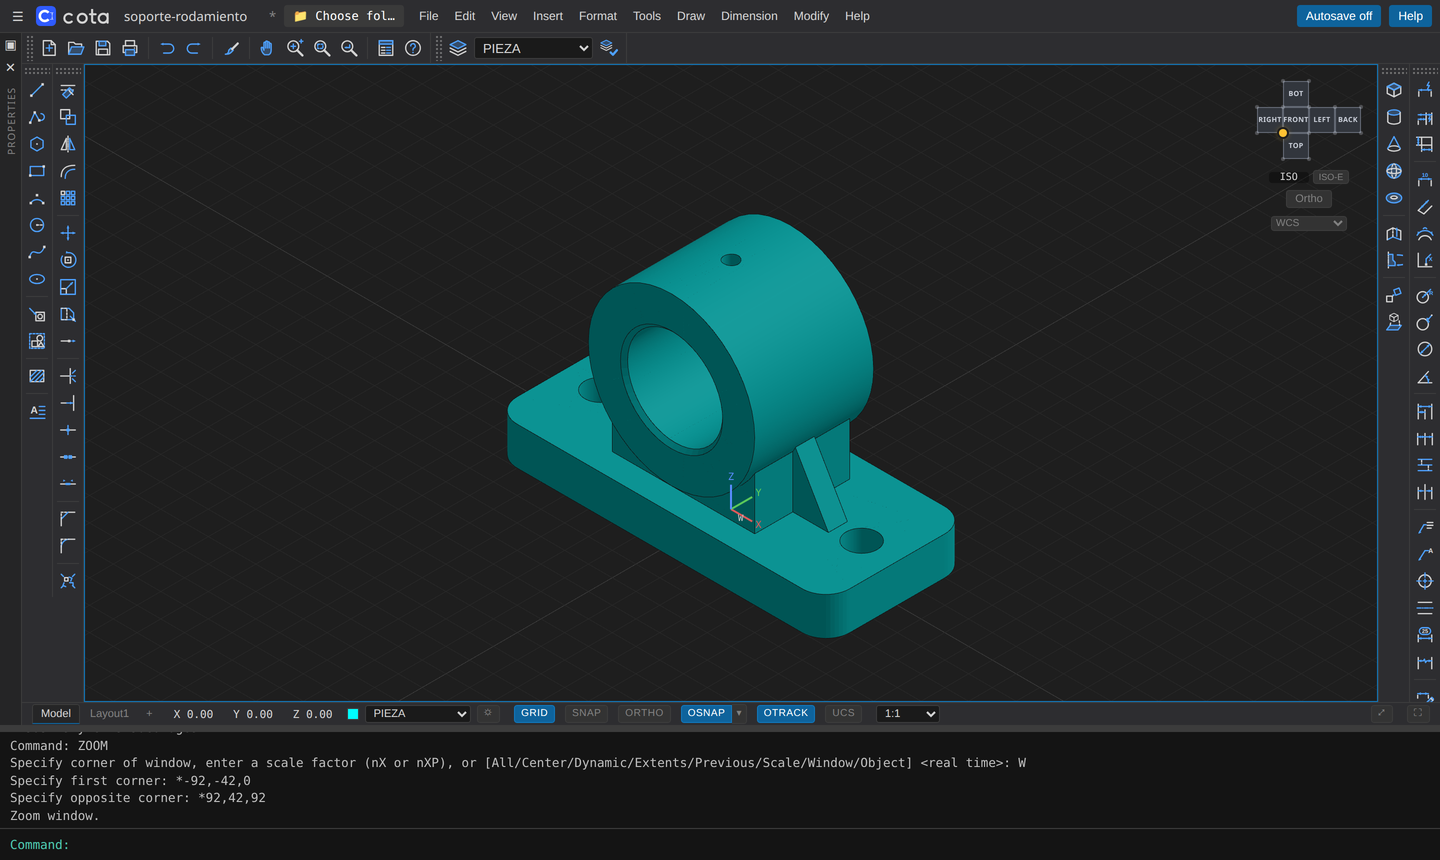
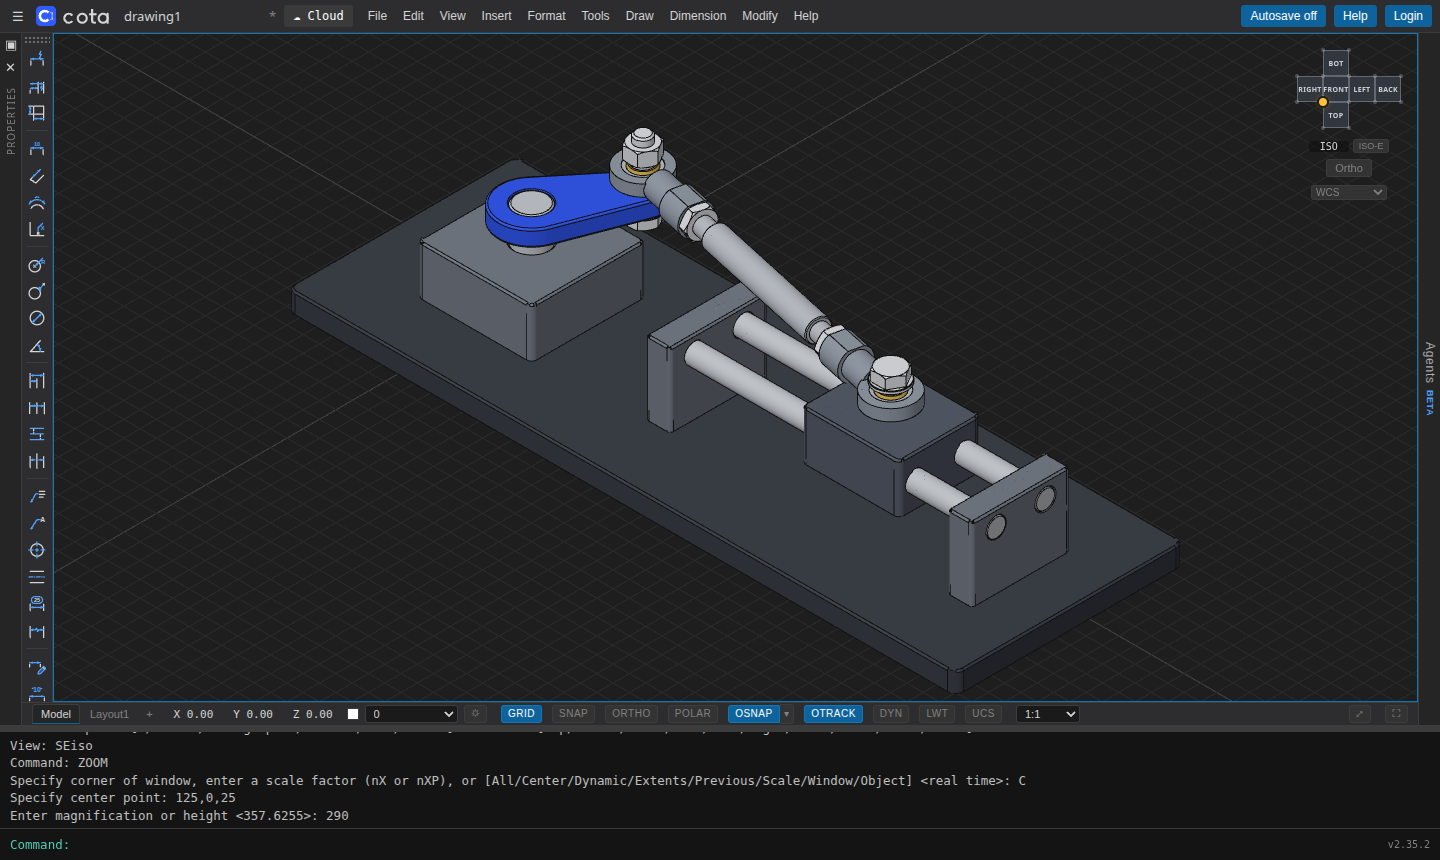
Cota 2.35.5

diff --git a/services/api/app/main.py b/services/api/app/main.py
@@ -20,7 +20,7 @@ def create_app(api_prefix: str = "") -> FastAPI:
     settings = get_settings()
     app = FastAPI(
         title="Cota API",
-        version="2.35.4",
+        version="2.35.5",
         docs_url=None if settings.is_hardened else f"{api_prefix}/docs",
         redoc_url=None,
         openapi_url=None if settings.is_hardened else f"{api_prefix}/openapi.json",

diff --git a/examples/README.md b/examples/README.md
@@ -94,3 +94,91 @@ two Ø13 mounting holes at ±55 and a Ø6 lubrication hole.
 9. **Dimensions in the Front UCS:** `DIMLINEAR 0,0 0,70 …`, `DIMLINEAR 0,0 80,0 …` and the Ø20 with
    `DIMLINEAR 20,40 @20,0 T ⌀<> …`.
 10. **Text "SOPORTE" on the plate:** `TEXT` with the dynamic UCS (click on the front face).
+
+## Slider-crank with rod ends — 3D assembly
+
+| File | What it is |
+| --- | --- |
+| `biela-manivela.cota` | The assembly: 27 solids on Spanish-named layers (`BANCADA`, `MANIVELA`, `BIELA`, `CABEZAS`, `ARO_INT`…) |
+| `biela-manivela.png` | Isometric view, shaded with edges |
+
+**What it is:** an in-line slider-crank, crank radius 50 and connecting rod 200 between centers (L/r = 4), shown with
+the crank at 60°. The rod has a rod end with a spherical plain bearing at each end, bolted to the crank and to a
+slider that runs on two Ø12 guide shafts.
+
+**Parts and sizes (mm):**
+- **Rod ends:** ISO 12240-4, dimension series E, type F (female thread M10): d 10, d2 29 (eye), C1 7 (eye width),
+  h1 43 (center to end of shank), l3 20 (thread length), d5 19 with W 17 wrench flats. Source: Schaeffler catalogue
+  HG 1, rod ends GIR..-DO, pp. 266–267 (row d = 10).
+- **Spherical plain bearing:** GE 10 E (ISO 12240-1): d 10, D 19, B 9, C 6, dk 16, r min 0.3. Source: SKF catalogue of
+  spherical plain bearings, pp. 104–105. The inner ring is a Ø16 sphere minus two caps at ±4.5 and a Ø10 bore; its
+  sphere-to-face edges carry the catalogue's 0.3 edge radius (`FILLETEDGE R 0.3`, *Loop*).
+- **Fasteners:** ISO 4017 M10×40 hex bolts (s 16, k 6.4, 30° chamfer on the head), ISO 4032 M10 nuts (s 16, m 8.4,
+  30° chamfer on both faces), ISO 7089 washers (10.5/20/2), ISO 4035 M10 jam nuts (s 16, m 5) on the rod, and
+  Ø12 × 3 spacers against the inner rings (abutment 11.7–13.2 from the bearing table).
+- **Crank:** 10 thick, Ø40 hub on a Ø20 shaft, Ø24 boss at the crank pin, R1 rounded outline, C0.5 on the holes.
+- **Rod:** Ø14 bar with M10 ends screwed 18 into the rod ends; C0.5 on the shoulders, C1 at the thread starts.
+- **Slider and frame:** 60 × 50 × 30 slider with two Ø12 bores and an M10 tapped hole; 410 × 140 × 12 base plate
+  (R5 corners, C1 top edge), shaft support and guide supports with R2–R3 corners, C1 top edges and C0.5–C1 on the
+  holes; C0.5 on the ends of the guide shafts, C1 on the crank shaft.
+
+**How it was made** (everything typed in the command line):
+
+1. **Layers:** one per part family, `-LAYER M <name> C <#rrggbb> <name> ↵`.
+2. **Blocks:** `BOX #-80,-70,-12 #330,70,-12 12` (base plate), `BOX` + `CYLINDER` + `SUBTRACT` for the supports and the
+   slider. Horizontal bores with the *Axis endpoint* option: `CYLINDER #99,-15,35 6 A #116,-15,35`.
+3. **Crank from regions:** `CIRCLE` R20 and R12 at the hub and the pin, a `PLINE` along the two outer tangents,
+   `REGION`, `UNION`, `EXTRUDE 10`, then `SUBTRACT` the Ø20 and Ø10.5 holes.
+4. **Bearing:** `SPHERE` R8, `SUBTRACT` two `BOX`es (the caps) and a `CYLINDER` (the bore); outer ring: `CYLINDER`
+   R9.5 × 6 minus the `SPHERE`.
+5. **Rod end housing:** built at the origin along +X (eye, neck and collar `CYLINDER`s, `UNION`, flats and thread hole
+   with `SUBTRACT`), then `ROTATE` and `MOVE` to each pin.
+6. **Hex heads and nuts:** `POLYGON 6 … C 8` + `EXTRUDE`; the 30° chamfer subtracts a ring made of a `CYLINDER` minus a
+   truncated `CONE` (base radius, top radius, *Axis endpoint*). Jam nuts are drawn in `UCS ZA` along the rod.
+7. **Finishing:** `FILLETEDGE R …` and `CHAMFEREDGE D … …` picking each edge (or the tangent *Chain* of the crank
+   outline).
+8. View: `-VIEW SEISO`, `VSCURRENT shadedEdges`.
+
+## Bolted splice of two IPE 100 beams — 3D assembly
+
+| File | What it is |
+| --- | --- |
+| `empalme-ipe100.cota` | The splice: two beams, two end plates and four bolt sets (20 solids) |
+| `empalme-ipe100.png` | Isometric view, shaded with edges |
+
+**What it is:** two IPE 100 beams joined end to end with 200 × 100 × 10 end plates and four M10 bolts.
+
+**Parts and sizes (mm):**
+- **IPE 100** (EN 10365): h 100, b 55, tw 4.1, tf 5.7, r 7. `MASSPROP` of the section region gives area 1032.32 mm²
+  and moments of inertia 1 710 121 mm⁴ (strong axis) and 159 187 mm⁴ (weak axis), the same as the published tables
+  (10.3 cm², 171 cm⁴, 15.9 cm⁴).
+- **End plates:** 200 × 100 × 10 with four Ø11 holes at ±30 / ±80 (ISO 273 medium clearance for M10). Edge distance 20
+  ≥ 1.2·d0 and gauge 60 ≥ 2.4·d0, the minimums of EN 1993-1-8, table 3.3.
+- **Bolts:** ISO 4017 M10×40, ISO 4032 nuts, two ISO 7089 washers each. Grip 24, so 7.6 of thread shows past the nut.
+
+**How it was made:**
+
+1. **Plates:** `BOX` with the four holes as `CYLINDER … A …` cutters and `SUBTRACT`.
+2. **Profile on the plate face:** `UCS #0,-10,0 ↵`, `UCS X 90`, `PLAN ↵`, then the outline typed with `PLINE`, using
+   `A` (tangent arc) at the four root radii and `L` back to lines:
+   `PLINE -27.5,-50 27.5,-50 27.5,-44.3 9.05,-44.3 A 2.05,-37.3 L 2.05,37.3 A 9.05,44.3 L 27.5,44.3 27.5,50 -27.5,50
+   -27.5,44.3 -9.05,44.3 A -2.05,37.3 L -2.05,-37.3 A -9.05,-44.3 L -27.5,-44.3 C`.
+3. **Section and beam:** `REGION L ↵`, `MASSPROP L ↵` (section properties), `EXTRUDE L ↵ 400`. The other beam is the
+   same profile in the UCS of the other plate, extruded −400.
+4. **Bolts:** hexagons drawn in `UCS X 90` and extruded, shanks with `CYLINDER … A …`, washers and nut holes with
+   `SUBTRACT`. `THREAD` on a shank adds the M10 (P 1.5) thread texture and its leader.
+
+## Disc brake — 3D assembly
+
+| File | What it is |
+| --- | --- |
+| `freno-disco.cota` | Vented and cross-drilled disc, hub with five studs, caliper with four pistons, pads, bracket and bolts (23 solids) |
+| `freno-disco.png` | Isometric view, shaded with edges |
+
+**What it is:** a Ø300 × 28 ventilated brake disc (36 radial vanes, cross-drilled in staggered groups of three every
+30°) on a hub with five studs on a Ø114.3 circle, and a four-piston caliper over the friction ring.
+
+**How it was made:** the disc is a `PLINE` profile turned with `REVOLVE … Z 360`; the vanes and holes are `BOX` and
+`CYLINDER` cutters repeated with `ARRAY P`, joined with `UNION` and removed with `SUBTRACT`. Hub, studs, caliper, pads
+and bracket are revolved profiles too (`REVOLVE … ST <start angle> <angle>` for the partial ones), and the bolts are
+`POLYGON 6` + `EXTRUDE` joined to their shanks.

diff --git a/CHANGELOG.md b/CHANGELOG.md
@@ -4,6 +4,17 @@ All notable changes to Cota are documented here. The project follows [Semantic V
 
 ## [Unreleased]
 
+## [2.35.5] — 2026-11-11
+
+### Documentation
+- **New README demo**: a slider-crank mechanism modeled with typed commands (crank, rod end with its spherical
+  bearing, connecting rod and the assembly on its base plate), and a new 3D model image.
+- **Three new reference models in `examples/`**, each with a screenshot and how it was built:
+  - a slider-crank with two ISO 12240-4 rod ends (GE 10 E spherical plain bearings), ISO 4017/4032/7089 fasteners and
+    finished edges (chamfers and fillets);
+  - a splice of two IPE 100 beams (EN 10365) with end plates and four M10 bolts;
+  - a disc brake.
+
 ## [2.35.4] — 2026-11-11
 
 ### Fixed

diff --git a/README.md b/README.md
@@ -24,7 +24,7 @@ no install, no account, no license fee.
 [![Sponsor](https://img.shields.io/github/sponsors/mxchristian17?label=sponsor&logo=githubsponsors&color=ea4aaa)](https://github.com/sponsors/mxchristian17)
 ![Commands](https://img.shields.io/badge/commands-240%2B-orange)
 
-![Cota in action: a part is modeled with typed commands, then its drawing views are generated and dimensioned automatically](docs/images/cota-demo.gif)
+![Cota in action: a slider-crank mechanism is modeled with typed commands: the crank from a profile with fillets, a rod end with its spherical bearing, the connecting rod with jam nuts, and the assembly on its base plate](docs/images/cota-demo.gif)
 
 </div>
 
